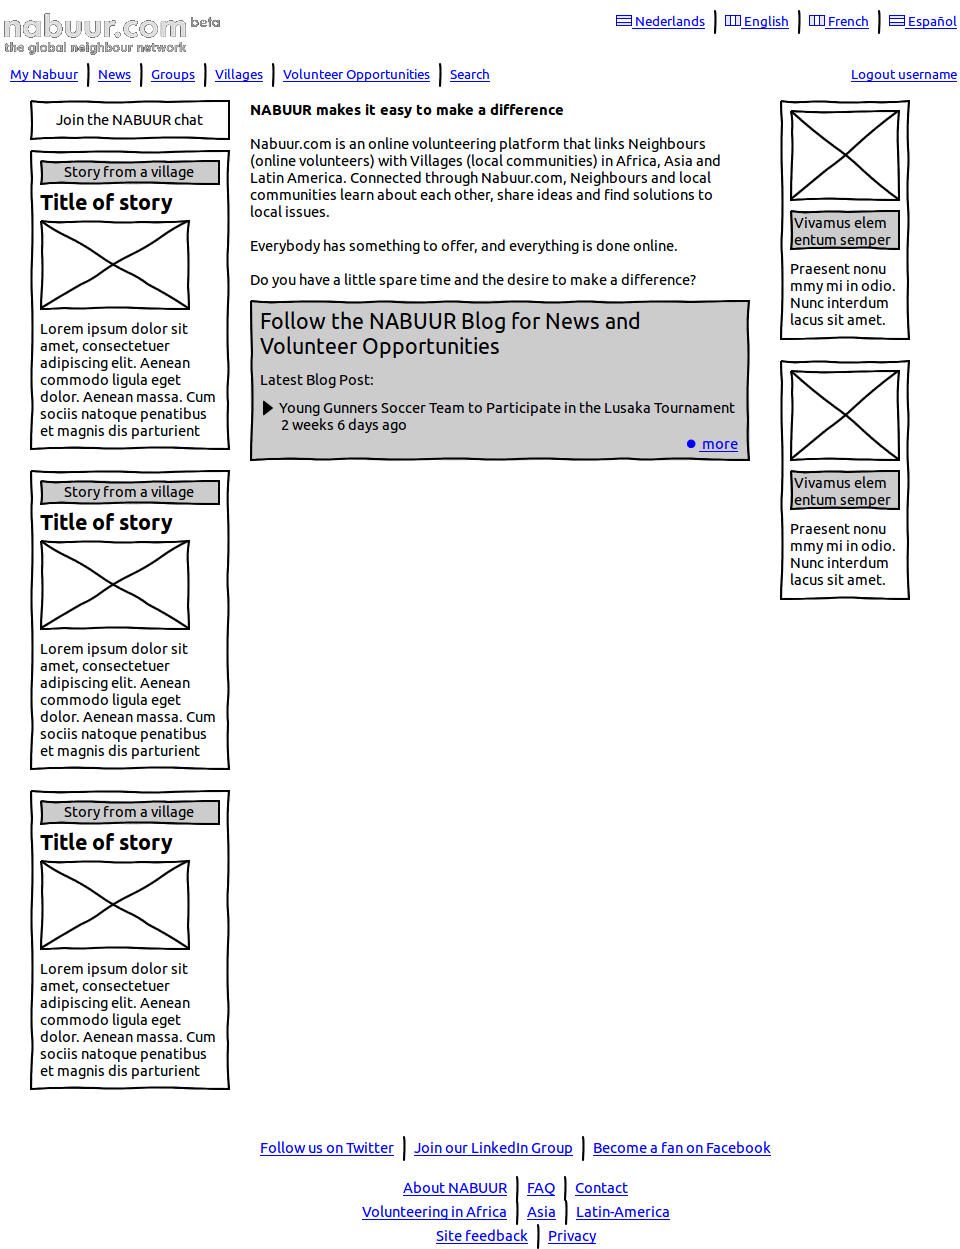
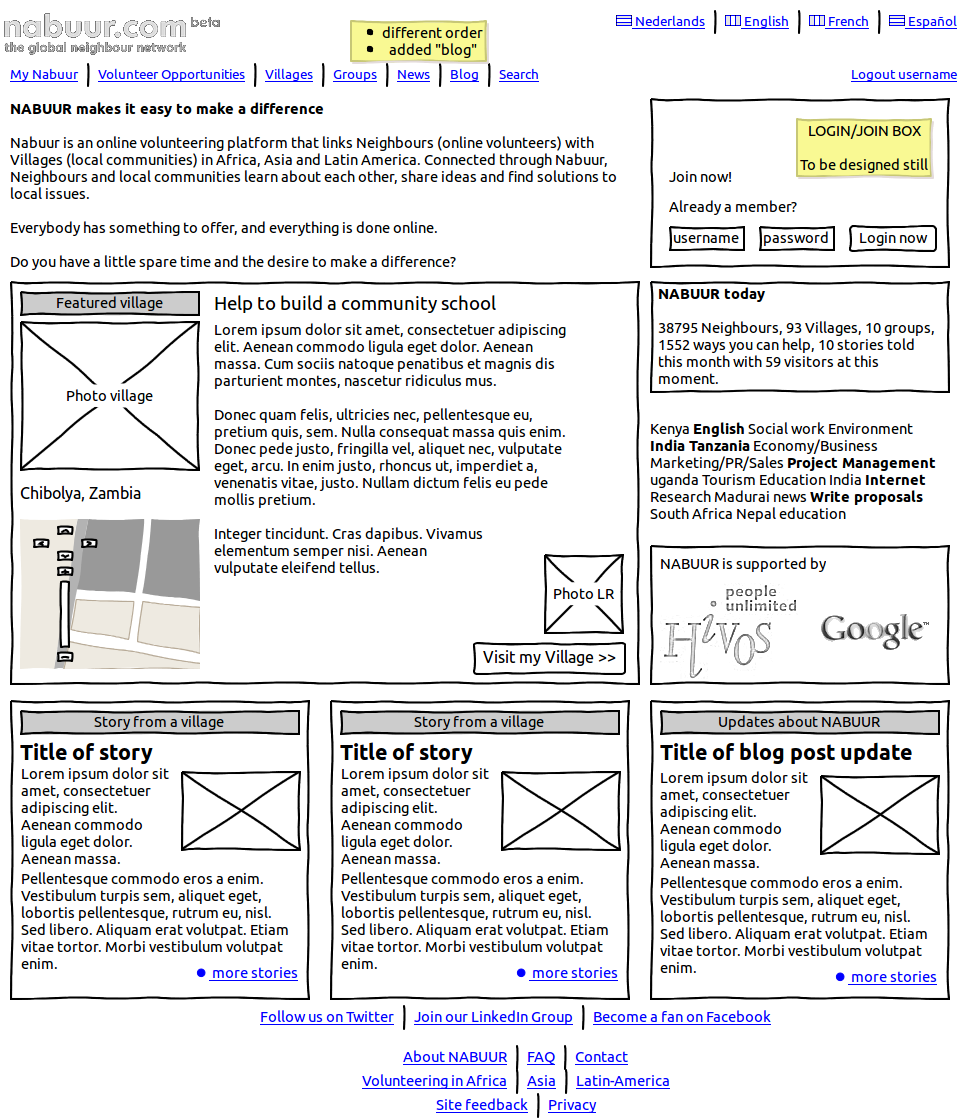
Redesigned homepage export

diff --git a/sketches/land-on-home-page_files/story.js b/sketches/land-on-home-page_files/story.js
@@ -2,7 +2,7 @@ var story = {
  "title": "land-on-home-page",
  "pages": [{
   "title": "home",
-  "height": 1249,
+  "height": 1118,
   "width": 960,
   "image": "home.png",
   "links": []
